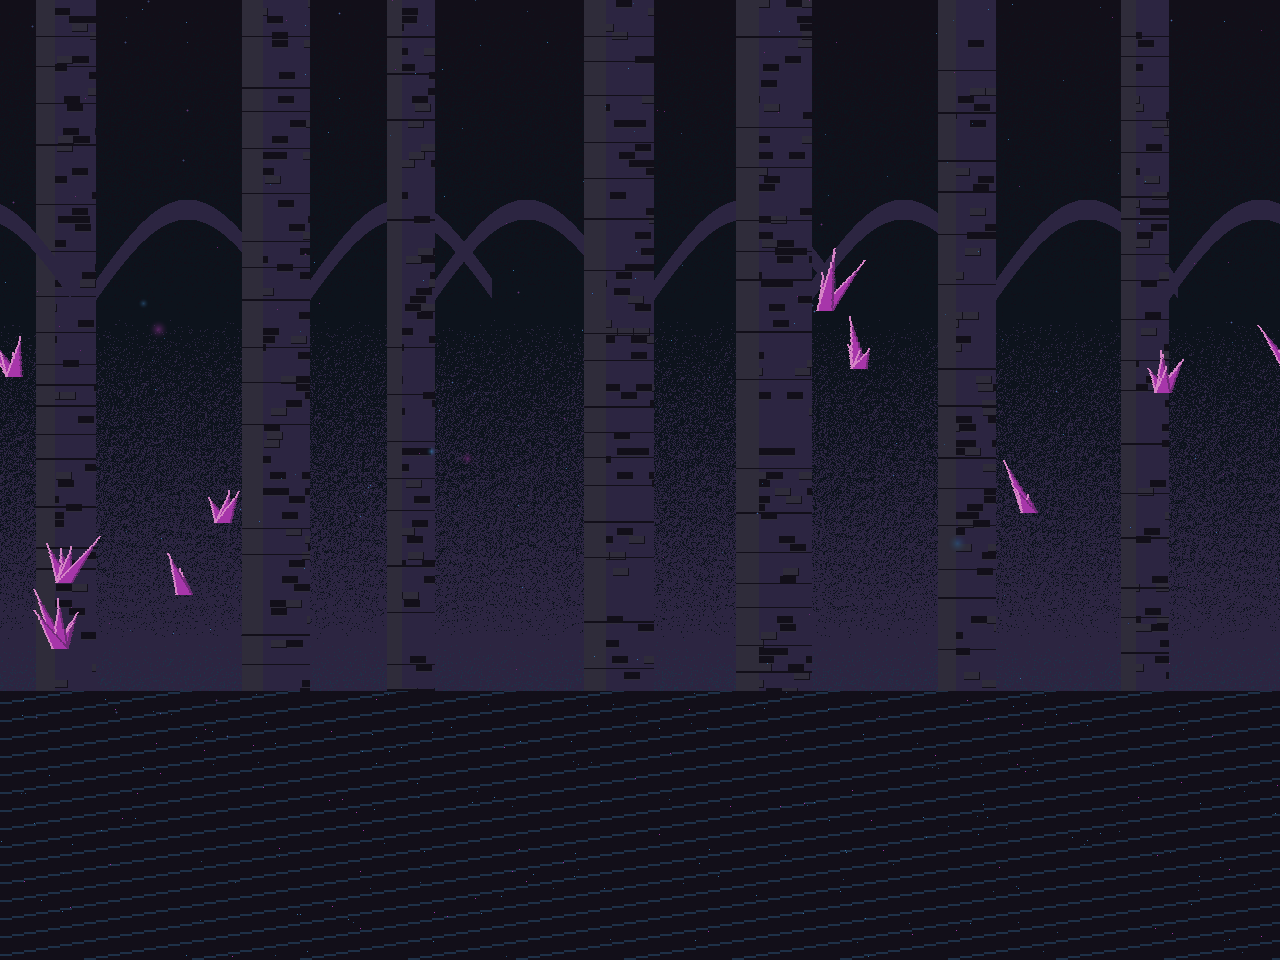
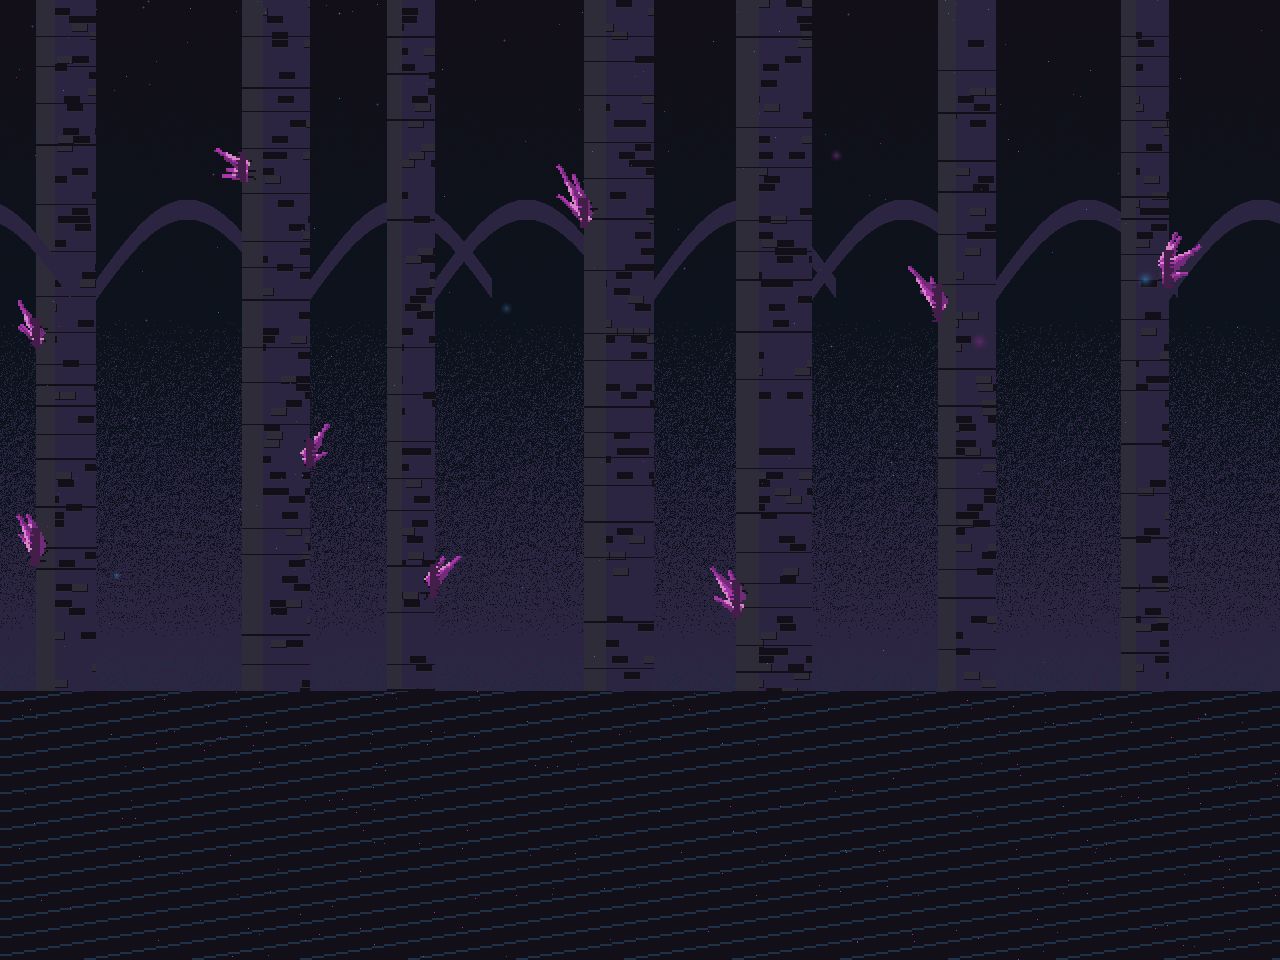
Pass 563: Vorrhallow's stillglass grows out of the stone
The backdrops' crystals floated like spears (independent grade, pass 560).
Each growth now has a seat on a pillar's face: cracks into the stone, a
leader with lesser shards fanned beside it, a crust across the roots, and
faceted shards. Design bible 12.51; two guards in test_tilegen.py.

diff --git a/tools/art/tilegen.py b/tools/art/tilegen.py
@@ -1953,6 +1953,69 @@ def spires_mid():
     return img
 
 
+# Vorrhallow's stillglass grows out of the stone (design bible 12.51, pass 563). The
+# independent grade (pass 560) read the backdrops' crystals as "floating spears,
+# attached to no rock": the far layer scattered its clusters anywhere, sky included,
+# and the mid layer ran one thin needle from the middle of each column. A growth now
+# has a seat (a point on a pillar's face and the way the face looks), a fan of
+# broad-based shards around that normal, cracks run back into the stone, and a dark
+# crust across the root. The painters record their seats here so the guard in
+# test_tilegen.py can find them.
+STILLGLASS_SEATS = {}
+
+
+def stillglass_shard(img, rx, ry, ang, length, width, cols):
+    """One faceted shard in world pixels: rooted at rx, ry, pointing along `ang`
+    (0 is up, positive leans right), `width` across at the root and tapering to a
+    point. The facet turned to the top-left light is `cols[1]` with a rim of
+    `cols[0]`; the facet turned away is `cols[2]`."""
+    ax, ay = math.sin(ang), -math.cos(ang)
+    px, py = math.cos(ang), math.sin(ang)
+    lit_side = -1 if (px + py) > 0 else 1
+    steps = int(length * 2)
+    for i in range(-4, steps + 1):  # starts two pixels inside the stone
+        t = i / 2
+        half = max(0.5, (1 - max(t, 0) / length) * width / 2)
+        n = int(half * 2)
+        for j in range(-n, n + 1):
+            k = j / 2
+            edge = half - abs(k) < 1.0 and half > 1.0
+            # Two facets meet on a ridge down the middle: the one turned to the
+            # light is the body colour with a bright rim, the other is in shade.
+            col = cols[1] if k * lit_side >= 0 else cols[2]
+            if edge and k * lit_side > 0:
+                col = cols[0]
+            block(img, int(round(rx + ax * t + px * k)), int(round(ry + ay * t + py * k)), c(col))
+
+
+def stillglass_growth(img, rx, ry, face, lean, rng, reach, width, cols, crust="crystal-1"):
+    """A seated cluster of stillglass at world pixel rx, ry on a stone face whose
+    normal is `face` (0 is up, positive turns right; a pillar's right face is pi/2):
+    cracks into the stone, a leader along `lean` with shorter shards fanned beside
+    it, their roots spread along the face, and a crust laid on the face over them."""
+    tx, ty = math.cos(face), math.sin(face)  # along the face
+    nx, ny = math.sin(face), -math.cos(face)  # out of it
+    span = width * 0.9
+    # Cracks run back into the stone from the root.
+    for _ in range(3):
+        a = face + math.pi + rng.uniform(-0.9, 0.9)
+        u = rng.uniform(-span, span)
+        for t in range(rng.randint(3, 7)):
+            block(img, int(round(rx + tx * u + math.sin(a) * t)), int(round(ry + ty * u - math.cos(a) * t)), c("night-0"))
+    # The lesser shards first, so the leader lies over them. None leans back into
+    # the stone: each stays within 1.2 rad of the face's normal.
+    for f in sorted((rng.uniform(-0.7, 0.7) for _ in range(rng.randint(2, 3))), key=abs, reverse=True):
+        u = (f / 0.7) * span
+        ang = face + max(-1.2, min(1.2, lean + f - face))
+        stillglass_shard(img, rx + tx * u, ry + ty * u, ang, reach * rng.uniform(0.45, 0.7), width * rng.uniform(0.55, 0.8), cols)
+    stillglass_shard(img, rx, ry, lean, reach, width, cols)
+    # The crust: a ragged dark knuckle of wine glass on the face, across the roots.
+    for h in range(int(-span * 2) - 4, int(span * 2) + 5):
+        u = h / 2
+        for t in range(-1, rng.randint(2, 4)):
+            block(img, int(round(rx + tx * u + nx * t)), int(round(ry + ty * u + ny * t)), c(crust))
+
+
 def vorrhallow_far():
     img = Image.new("RGBA", (BG_W, BG_H), c("night-0"))
     gradient(img, "night-0", "sky-1")
@@ -1960,9 +2023,11 @@ def vorrhallow_far():
     # The drowned capital's great hall: rows of colossal pillars and arches
     # sunk to their knees in dark water, crystal light glowing between them.
     water = int(BG_H * 0.72)
+    pillars = []
     for i in range(7):
         x0 = int((i + rng.uniform(0.0, 0.4)) * BG_W / 7)
         w = rng.randrange(24, 40) * D
+        pillars.append((x0, w))
         cs = masonry_courses(0, BG_H, 440 + i, 18 * D)
         for y in range(BG_H):
             for dx in range(w):
@@ -1981,18 +2046,19 @@ def vorrhallow_far():
             top = int(60 * D + math.sin(k * math.pi) * -40 * D) + 90 * D
             for y in range(top - 10 * D, top):
                 put(img, x0 + w + dx, y, c("night-1"))
-    # Crystal clusters on the far walls, glowing magenta.
-    for _ in range(9):
-        cx, cy = rng.randrange(BG_W), rng.randrange(80, water // D - 20) * D
-        for k in range(rng.randint(3, 6)):
-            h = rng.randrange(10, 34) * D
-            ang = rng.uniform(-0.7, 0.7)
-            for t in range(h):
-                wdt = max(D, int((h - t) / h * 9 * D))
-                x = cx + int(math.sin(ang) * t) - wdt // 2
-                y = cy - int(math.cos(ang) * t)
-                for dx in range(wdt):
-                    put(img, x + dx, y, c("crystal-5" if dx < D else ("crystal-2" if dx >= wdt - D else "crystal-3")))
+    # Stillglass grown out of the far pillars' faces, glowing magenta: each cluster
+    # is seated on a pillar's face and leans up and away from it (bible 12.51).
+    seats = []
+    for k in range(9):
+        x0, w = pillars[(k * 3 + rng.randrange(2)) % len(pillars)]
+        side = rng.choice([-1, 1])
+        rx = (x0 if side < 0 else x0 + w - D) // D
+        ry = rng.randrange(80, water // D - 30)
+        seats.append((rx, ry, side))
+        stillglass_growth(img, rx, ry, side * math.pi / 2, side * rng.uniform(0.5, 1.0), rng,
+                          rng.randrange(14, 30), rng.randrange(6, 9),
+                          ("crystal-5", "crystal-3", "crystal-2"))
+    STILLGLASS_SEATS["vorrhallow_far"] = {"pillars": [(x // D, w // D) for x, w in pillars], "seats": seats}
     # Dark water with glints and the crystals' smeared reflections.
     for y in range(water, BG_H):
         for x in range(BG_W):
@@ -2009,7 +2075,8 @@ def vorrhallow_mid():
     img = Image.new("RGBA", (BG_W, BG_H), CLEAR)
     rng = random.Random(62)
     # Broken colonnades and toppled statues of dwarf kings, nearer and darker,
-    # with crystal spears grown through them.
+    # with stillglass grown out of them.
+    columns = []
     for i in range(6):
         x0 = int((i + rng.uniform(0.1, 0.7)) * BG_W / 6)
         w = rng.randrange(14, 24) * D
@@ -2023,16 +2090,25 @@ def vorrhallow_mid():
                 if y in cs:
                     col = "night-0"  # a weathered mortar course
                 put(img, x0 + dx, y, c(col))
-        # A crystal spear through the column.
-        sx, sy = x0 + w // 2, top + rng.randrange(20, 80) * D
-        ln = rng.randrange(30, 70) * D
-        ang = rng.choice([-1, 1]) * rng.uniform(0.4, 0.9)
-        for t in range(ln):
-            x = sx + int(math.sin(ang) * t)
-            y = sy - int(math.cos(ang) * t)
-            wdt = max(D, int((ln - t) / ln * 7 * D))
-            for k in range(wdt):
-                put(img, x + k - wdt // 2, y, c("crystal-6" if k < D else ("crystal-2" if k >= wdt - D else "crystal-4")))
+        columns.append((x0, w, top))
+    # Stillglass bursting from the columns' faces: a broad-based cluster seated on
+    # the stone, leaning up and out, and on some columns a lesser one lower down on
+    # the other face (bible 12.51). Drawn after every column so none is painted over.
+    seats = []
+    for x0, w, top in columns:
+        side = rng.choice([-1, 1])
+        ry = top // D + rng.randrange(24, 80)
+        for n, s_ in enumerate((side, -side)):
+            if n and rng.random() < 0.45:
+                continue
+            rx = (x0 if s_ < 0 else x0 + w - D) // D
+            seats.append((rx, ry, s_))
+            stillglass_growth(img, rx, ry, s_ * math.pi / 2, s_ * rng.uniform(0.5, 0.95), rng,
+                              rng.randrange(12, 18) if n else rng.randrange(22, 36),
+                              rng.randrange(7, 10) if n else rng.randrange(12, 17),
+                              ("crystal-6", "crystal-4", "crystal-2"))
+            ry += rng.randrange(50, 110)
+    STILLGLASS_SEATS["vorrhallow_mid"] = {"pillars": [(x // D, w // D) for x, w, _ in columns], "seats": seats}
     # Hanging chains from the vault.
     for _ in range(8):
         x = rng.randrange(BG_W)

diff --git a/tools/art/test_tilegen.py b/tools/art/test_tilegen.py
@@ -1298,5 +1298,75 @@ def test_the_core_glow_is_a_fine_dither_not_blocks():
     assert longest <= 2 * tg.D, f"the foot row has a lit run {longest} px long"
 
 
+def _seated(painter, key, lit, reach):
+    """Paints a Vorrhallow layer and returns its pixels, pillars and seats, after
+    checking that every pixel of the shards' lit rim lies within `reach` world
+    pixels of a seat: no stillglass hangs in the open."""
+    img = painter()
+    px = img.load()
+    rec = tg.STILLGLASS_SEATS[key]
+    seats, D, W = rec["seats"], tg.D, tg.BG_W // tg.D
+    assert len(seats) >= 6, f"{key} has only {len(seats)} growths"
+    rim = tg.c(lit)
+    n = 0
+    for y in range(0, tg.BG_H, D):
+        for x in range(0, tg.BG_W, D):
+            if px[x, y] != rim:
+                continue
+            n += 1
+            wx, wy = x // D, y // D
+            near = min(max(min(abs(wx - rx), W - abs(wx - rx)), abs(wy - ry)) for rx, ry, _ in seats)
+            assert near <= reach, f"{key}: stillglass at {wx},{wy} is {near} px from any seat"
+    assert n > 40 * len(seats) // 4, f"{key}: the shards have no lit rim ({n} px)"
+    return px, rec
+
+
+def test_vorrhallows_stillglass_is_seated_on_the_stone():
+    # Design bible 12.51: the independent grade (pass 560) saw "floating spears,
+    # attached to no rock". Every growth in both backdrops has a seat on a pillar's
+    # face, leans away from that pillar, and no shard lies far from a seat.
+    D, W = tg.D, tg.BG_W // tg.D
+    for painter, key, lit, reach in ((tg.vorrhallow_far, "vorrhallow_far", "crystal-5", 34),
+                                     (tg.vorrhallow_mid, "vorrhallow_mid", "crystal-6", 40)):
+        px, rec = _seated(painter, key, lit, reach)
+        glass = {tg.c(n) for n in (lit, "crystal-3", "crystal-4", "crystal-2", "crystal-1")}
+        for rx, ry, side in rec["seats"]:
+            edges = {(x0 % W) if side < 0 else ((x0 + w - 1) % W) for x0, w in rec["pillars"]}
+            assert rx % W in edges, f"{key}: the seat at {rx},{ry} is on no pillar's face"
+            # Broad at the root: glass runs along the face, just outside it, for
+            # 8 world pixels or more (the old needle crossed it in 3 or 4).
+            run = sum(1 for dy in range(-16, 17)
+                      if 0 <= ry + dy < tg.BG_H // D and px[((rx + side) % W) * D, (ry + dy) * D] in glass)
+            assert run >= 8, f"{key}: the growth at {rx},{ry} is {run} px across at its root"
+            # It leans away from its pillar: glass stands 4 px out from the face.
+            out = sum(1 for dy in range(-30, 6)
+                      if 0 <= ry + dy < tg.BG_H // D and px[((rx + side * 4) % W) * D, (ry + dy) * D] in glass)
+            assert out >= 3, f"{key}: the growth at {rx},{ry} does not leave its pillar"
+
+
+def test_a_stillglass_shard_has_two_facets_and_a_lit_rim():
+    # 12.51: a shard is a prism, not a flat spear: a lit facet with a bright rim
+    # toward the top-left light, and a facet in shade.
+    from PIL import Image
+    img = Image.new("RGBA", (tg.BG_W, tg.BG_H), tg.CLEAR)
+    tg.stillglass_shard(img, 100, 200, 0.7, 30, 12, ("crystal-6", "crystal-4", "crystal-2"))
+    counts = {}
+    for y in range(0, tg.BG_H, tg.D):
+        for x in range(0, tg.BG_W, tg.D):
+            p = img.getpixel((x, y))
+            if p[3]:
+                counts[p] = counts.get(p, 0) + 1
+    rim, body, shade = (counts.get(tg.c(n), 0) for n in ("crystal-6", "crystal-4", "crystal-2"))
+    total = rim + body + shade
+    assert total == sum(counts.values()) and total > 120, "the shard is drawn in its three colours only"
+    assert shade > total * 0.3 and body > total * 0.2, f"two facets ({body} lit, {shade} in shade)"
+    assert 0 < rim < body + shade, f"a rim, not a fill ({rim})"
+    # The rim is on the side toward the light: its mean lies up and left of the shade's.
+    def mean(col):
+        pts = [(x, y) for y in range(0, tg.BG_H, tg.D) for x in range(0, tg.BG_W, tg.D) if img.getpixel((x, y)) == tg.c(col)]
+        return sum(x + y for x, y in pts) / len(pts)
+    assert mean("crystal-6") < mean("crystal-2"), "the rim faces the top-left light"
+
+
 if __name__ == "__main__":
     main()

diff --git a/docs/loop/pass-563.md b/docs/loop/pass-563.md
@@ -1,0 +1,78 @@
+# Pass 563: Vorrhallow's stillglass grows out of the stone
+
+## Category
+
+Art cohesion, from the independent grade taken after pass 560 (4.9/10): "Vorrhallow's magenta
+stillglass shards are scattered at random angles like floating spears, attached to no rock."
+
+No note from Sean was new. The queue's first items are parked for a watched session (lighting and
+depth) or wait on the Haar branches and on Sean's OK of a base, and the Boughs' foliage and the
+hero's size are watched-session or PixelLab items too, so this is the first one that can be built
+unattended. The PixelLab art loop stays **gated** on Sean: three guardian bases (Haar Wyrm, Thane
+Vorrund, Drowned Warden) wait for his OK, the limit of three. No PixelLab generations were spent,
+and no Autosprite credits. The hosted workbench is still down (its Vercel Blob store is
+suspended); it stays under "stuck" for Sean.
+
+## Audit
+
+- The spears are not decor or props: they are painted into the two parallax backdrops by
+  `tools/art/tilegen.py`.
+- `vorrhallow_far` drew nine clusters at random points of the layer, so most hung in the open air
+  between the far pillars.
+- `vorrhallow_mid` drew one needle per column, 30 to 70 px long and 7 px wide at its thickest,
+  starting in the middle of the column at a random angle. It touched the stone, and still read as
+  a spear laid across the pillar.
+- The floor shards (`decorgen.vorrhallow_shards`) and the hanging glass under the ceiling are
+  seated already.
+
+## What was built
+
+- `stillglass_shard`: one prism in whole world pixels, broad at the root and tapering, a lit
+  facet with a bright rim toward the top-left light and a facet in shade.
+- `stillglass_growth`: a seated cluster. Cracks into the stone, a leader that leans up and away
+  from the face, two or three shorter shards beside it with their roots spread along the face,
+  and a ragged wine crust on the face across the roots.
+- The far layer seats its nine clusters on the far pillars' faces. The mid layer seats one on
+  each broken column and, on about half, a lesser one lower on the other face. The seats are
+  recorded in `STILLGLASS_SEATS`.
+- `assets/bg/vorrhallow_far.png` and `vorrhallow_mid.png` regenerated. A whole run of tilegen
+  also rewrote five other mid layers (boughs, haar, hearthroot, heartwood, trials); those are not
+  this pass's and were put back. It goes on the queue as a tooling item.
+- Design bible 12.51.
+
+Looked at in `vorrhallow/gate_hall` and `vorrhallow/throne_hall` at 1x and 2x, before and after. A
+first take seated each cluster on a line square to its own lean, which read as a flock of birds;
+the crust now lies on the pillar's face.
+
+## Tests
+
+`tools/art/test_tilegen.py` (71 checks): `test_vorrhallows_stillglass_is_seated_on_the_stone`
+(every seat is on a pillar's face, the glass is 8 px or more across at the root, it stands out
+from the face, and no lit rim lies farther from a seat than a leader reaches) and
+`test_a_stillglass_shard_has_two_facets_and_a_lit_rim`.
+
+Mutation check: far seats at a random x fail the first ("on no pillar's face"); a 3 px leader
+fails it ("no lit rim"); a one-colour body fails the second ("two facets").
+
+## Rubric (design bible 15.3)
+
+| Category | Weight | Score | Notes |
+| --- | --- | --- | --- |
+| Movement feel | 20 | 99 | Unchanged. |
+| Combat and enemies | 15 | 99 | Unchanged. |
+| World and level design | 15 | 99 | Unchanged; one-template rooms and the empty mid-ground remain. |
+| Art cohesion | 15 | 98 | Vorrhallow's glass belongs to its pillars. The independent grade is the real measure. |
+| Bosses | 10 | 99 | Unchanged. |
+| Systems | 10 | 99 | Unchanged. |
+| Audio | 5 | 99 | Unchanged. |
+| Stability and performance | 5 | 99 | Unchanged. |
+| Story and world | 5 | 99 | Unchanged. |
+
+Weighted: 98.85.
+
+## Next
+
+The next independent grade is due after pass 565, or after the next art pass, and uses fight
+frames. Of the queue: one-template rooms, then the trimless floor and ceiling bands, then the
+Sunken Spring's pillars and water. The Haar items wait until the hydra and steam branches merge;
+the Blinkhop waits for a free base slot.

diff --git a/docs/design-bible.md b/docs/design-bible.md
@@ -2203,6 +2203,19 @@ Left over from 12.48 and 12.49: the Evercrown's tiles were violet on a wine back
 
 After: the mean hue of the atlas's opaque pixels goes from 261 to 246, 49 degrees off the haze; the floor of `evercrown/threshold` measures hue 237 where it measured 251, at the same luminance. Judged by eye at 1x and 3x in `threshold`, `veins`, `heart` and `proving_scar`, before and after: the rock reads as an indigo mass with a cool glint on each cell, and the wine tendrils and ridge fall behind it. `assets/tiles/evercrown.png` is regenerated. `test_the_evercrowns_tiles_stand_off_its_wine_haze` holds the atlas to the haze; `test_the_evercrown_cells_are_lit_by_their_pores` in `tools/art/test_tilegen.py` holds the painter.
 
+### 12.51 Vorrhallow's stillglass grows out of the stone (pass 563)
+
+The independent grade taken after pass 560: "magenta stillglass shards scattered at random angles like floating spears, attached to no rock." They were in the backdrops. `vorrhallow_far` put nine clusters at random points, the open air between pillars included, and `vorrhallow_mid` ran one needle 30 to 70 px long and 7 px wide from the middle of each column.
+
+- **Every growth has a seat.** A seat is a point on a pillar's face. The far layer seats nine clusters on the far pillars' faces; the mid layer seats one on each broken column, and on about half of them a lesser one lower down on the other face. `STILLGLASS_SEATS` records them.
+- **A growth is a cluster with a root** (`stillglass_growth`): cracks run back into the stone, a leader leans up and away from the pillar with two or three shorter shards fanned beside it, their roots spread along the face, and a ragged crust of wine glass (crystal-1) lies on the face across the roots. No shard leans back into the stone.
+- **A shard is a prism** (`stillglass_shard`): broad at the root (12 to 16 px on a mid leader, where the needle had 7), tapering to a point, with a lit facet and a bright rim toward the top-left light and a facet in shade. Painted in whole world pixels.
+- The floor shards of the decor atlas and the ceiling's hanging glass were already seated and are unchanged. Nothing on the play layer moves.
+
+Judged by eye at 1x and 2x in `vorrhallow/gate_hall` and `vorrhallow/throne_hall`, before and after: the glass reads as clusters broken out of the columns, not as loose spears. `assets/bg/vorrhallow_far.png` and `vorrhallow_mid.png` are regenerated. `test_vorrhallows_stillglass_is_seated_on_the_stone` and `test_a_stillglass_shard_has_two_facets_and_a_lit_rim` in `tools/art/test_tilegen.py` hold it.
+
+Not done: the wading foe at the waterline, the other half of the same grade line, stays with the waterline item (ripples and a splash at each waterline).
+
 ## 13. Asset Production Plan
 
 ### 13.1 Tools and when to use each
